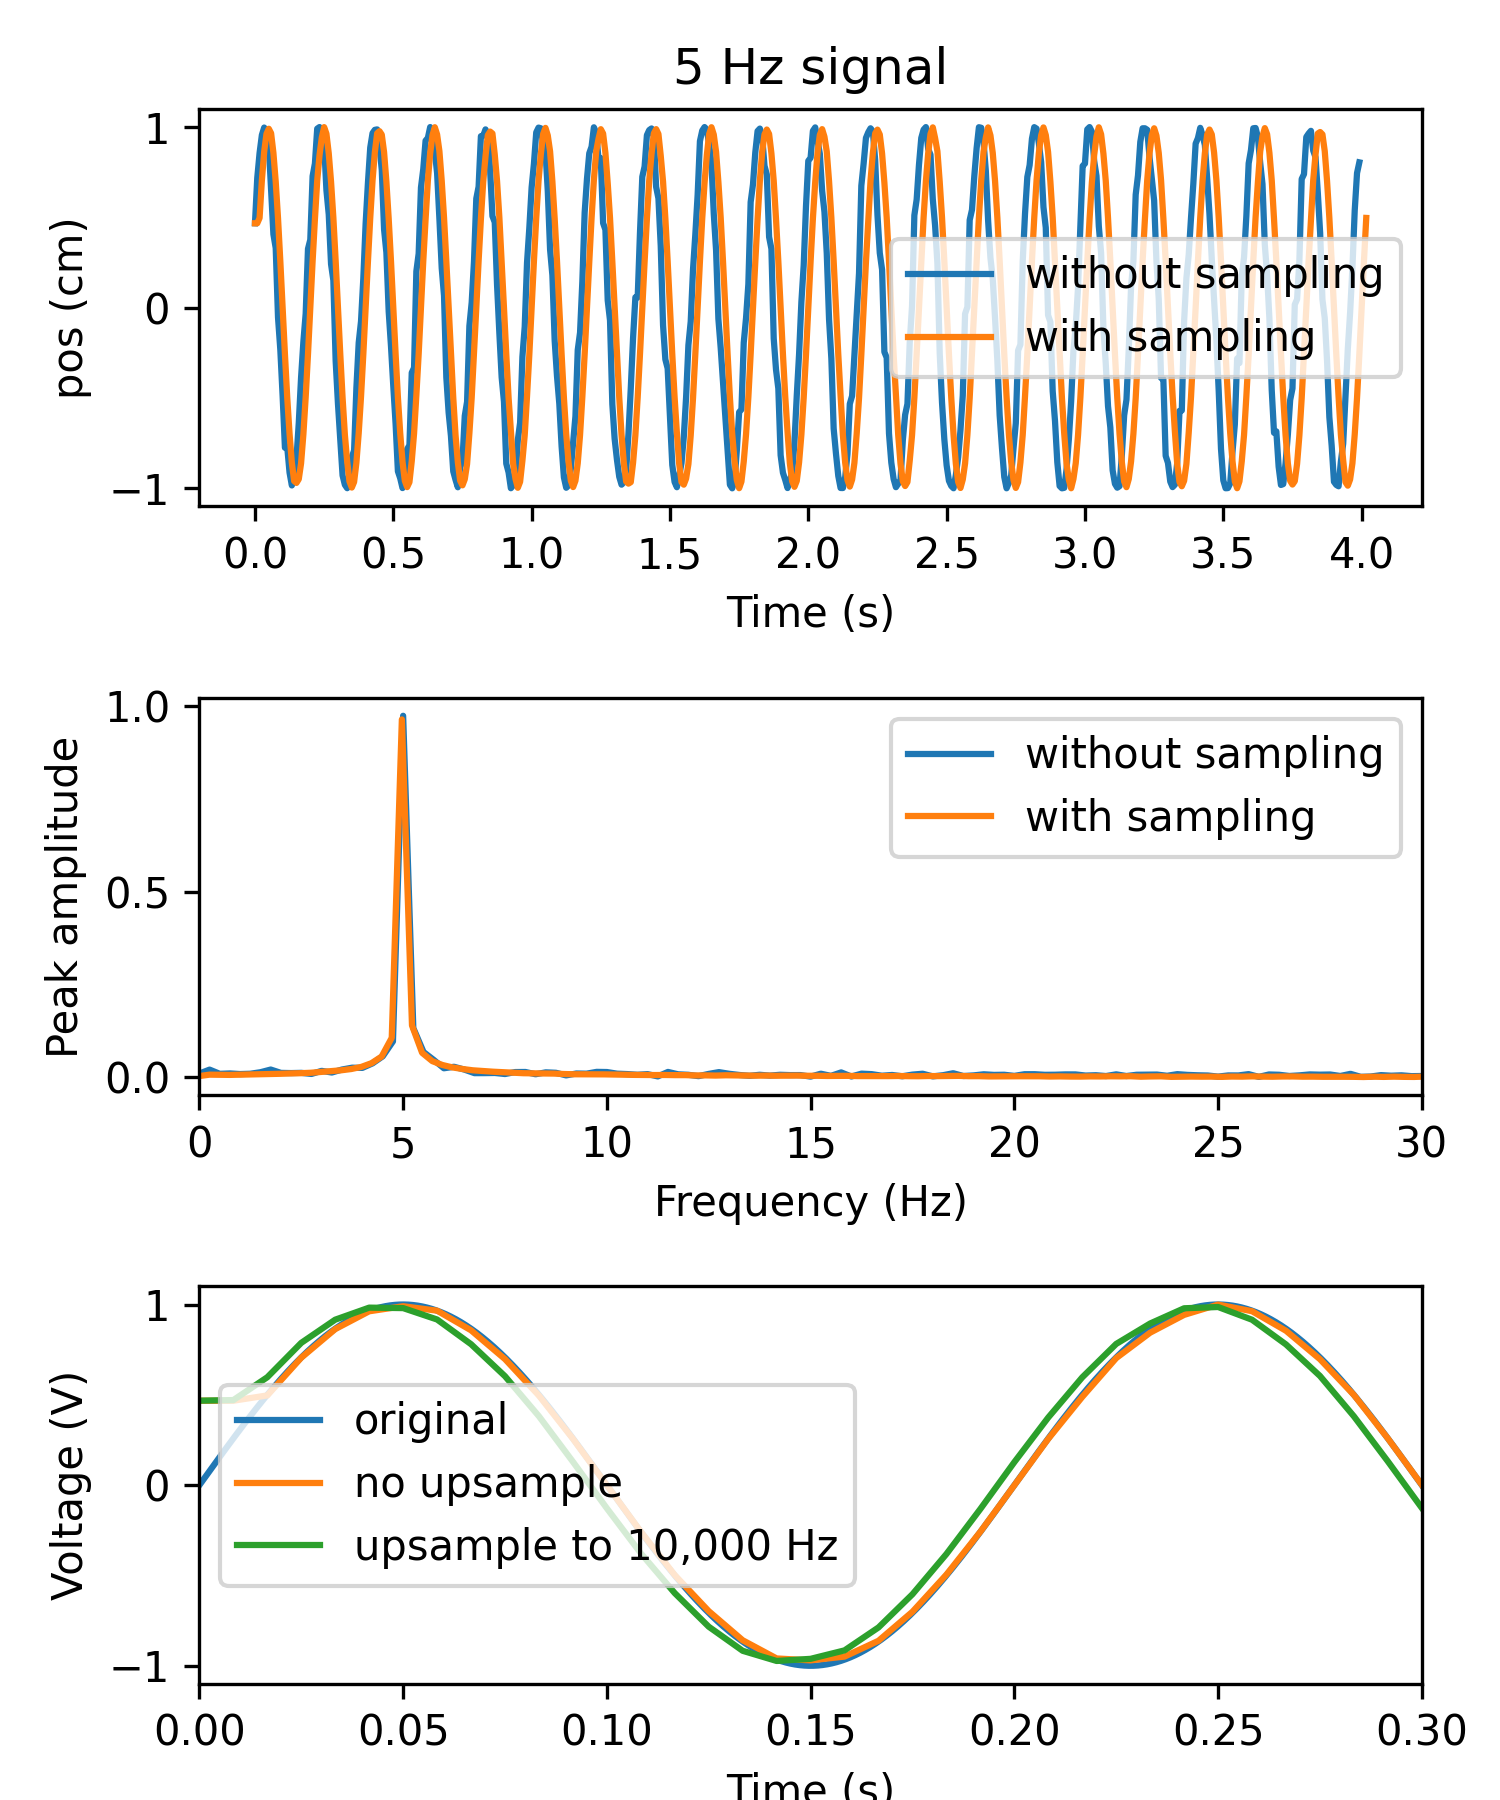
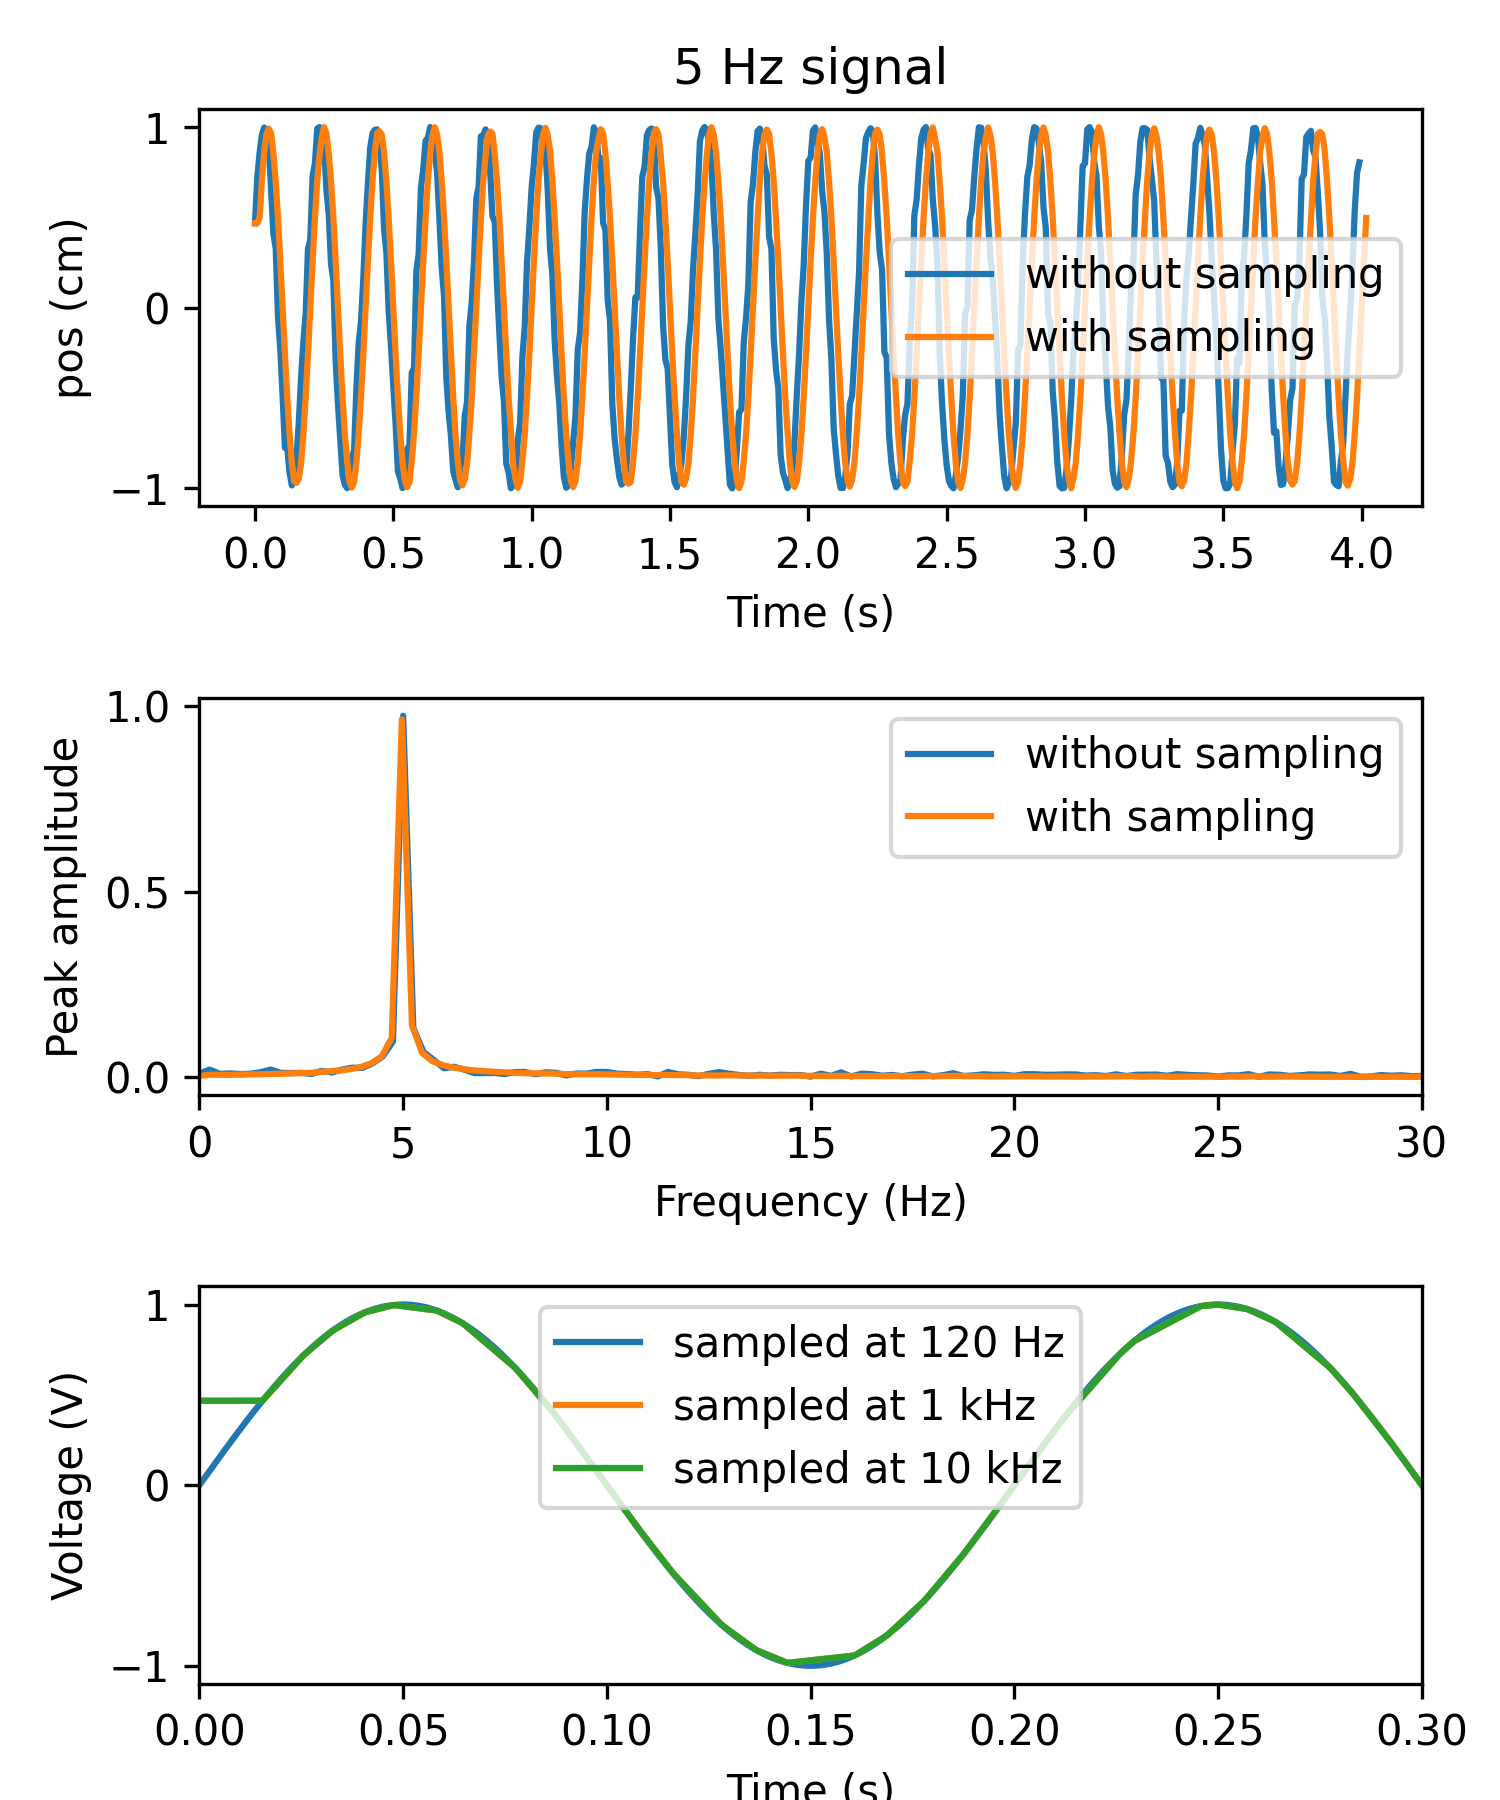
remove upsamplerate

Changed region(s): [[0.2147, 0.7156, 0.8587, 0.9333], [0.1227, 0.7467, 0.2147, 0.8711], [0.8587, 0.7467, 0.9507, 0.84]]

diff --git a/aopy/preproc/base.py b/aopy/preproc/base.py
@@ -271,28 +271,74 @@ def sample_timestamped_data(data, timestamps, samplerate, upsamplerate=None, app
             be sampled. The first dimension must represent the time index.
         timestamps (nt,): The timestamp (in seconds) for each data point in data.
         samplerate (float): The desired output sampling rate in Hz.
-        upsamplerate (float, optional): The upsampling rate to use for interpolation. 
-            Defaults to the samplerate.
+        upsamplerate (float, optional): (deprecated) No longer used.
         append_time (float, optional): The amount of extra time to add at the end 
             of the timeseries, in seconds. Defaults to 0.
         kwargs (dict, optional): arguments to include in interpolation function
 
     Returns:
         (ns, ...): cursor_data_time containing the sampled data.
+
+    Examples:
+
+        .. code-block:: python
+
+            np.random.seed(0)
+            duration = 4
+            freq = 5
+            samplerate = 25000
+            ground_truth_data = utils.generate_multichannel_test_signal(duration*2, samplerate, 2, freq, 1)
+            
+            fps = 120
+            nt = fps*duration
+            offset = 0.01 # timestamps start strictly after time zero
+            framerate_error = 0.01*np.random.uniform(size=(nt,)) # 10 ms jitter
+            drift = np.cumsum(0.0001*np.random.uniform(size=(nt,))) # 0.1 ms drift
+            timestamps = offset + np.arange(nt)/fps + framerate_error + drift
+            samples = (timestamps * samplerate).astype(int)
+
+            frame_data = ground_truth_data[samples,:]
+            interp_samplerate = 120
+            interp_data = sample_timestamped_data(frame_data, timestamps, interp_samplerate)
+
+            fig, ax = plt.subplots(3,1, figsize=(5,6))
+            visualization.plot_timeseries(frame_data[:,0], fps, ax=ax[0])
+            visualization.plot_timeseries(interp_data[:,0], interp_samplerate, ax=ax[0])
+            ax[0].set_title(f'{freq} Hz signal')
+            ax[0].set_ylabel('pos (cm)')
+            ax[0].legend(['without sampling', 'with sampling'])
+
+            visualization.plot_freq_domain_amplitude(frame_data[:,0], fps, ax=ax[1])
+            visualization.plot_freq_domain_amplitude(interp_data[:,0], interp_samplerate, ax=ax[1])
+            ax[1].set_xscale('linear')
+            ax[1].set_xlim(0,30)
+            ax[1].set_ylabel('Peak amplitude')
+            ax[1].legend(['without sampling', 'with sampling'])
+            plt.tight_layout()
+
+            # Compare with different upsampling rates
+            visualization.plot_timeseries(ground_truth_data[:,0], samplerate, ax=ax[2])
+            interp_data = sample_timestamped_data(frame_data, timestamps, 1000)
+            visualization.plot_timeseries(interp_data[:,0], 1000, ax=ax[2])
+            interp_data = sample_timestamped_data(frame_data, timestamps, 10000)
+            visualization.plot_timeseries(interp_data[:,0], 10000, ax=ax[2])
+            ax[2].set_xlim(0.0,0.3)
+            ax[2].legend(['sampled at 120 Hz', 'sampled at 1 kHz', 'sampled at 10 kHz'])
+
+        .. image:: _images/sample_timestamped_data.png
+
+    Modified July 2025: removed upsamplerate in favor of always interpolating to
+    exactly the sampling rate. Filtering and downsampling is now done later,
+    e.g. in :func:`~aopy.data.get_kinematics`.
     '''
     assert len(data) == len(timestamps), (f"Data and timestamps should "
         f"have the same number of cycles ({len(data)} vs {len(timestamps)})")
 
-    if upsamplerate is None:
-        upsamplerate = samplerate
+    if upsamplerate is not None:
+        warnings.warn("upsamplerate is no longer used", DeprecationWarning)
 
-    assert upsamplerate >= samplerate, "Upsamplerate must be greater than or equal to samplerate"
-
-    time = np.arange(int((timestamps[-1] + append_time)*upsamplerate))/upsamplerate # add extra time
+    time = np.arange(int((timestamps[-1] + append_time)*samplerate))/samplerate # add extra time
     data_time, _ = interp_timestamps2timeseries(timestamps, data, sampling_points=time, interp_kind='linear', extrapolate=False, **kwargs)
-    if upsamplerate > samplerate:
-        data_time, _ = precondition.filter_kinematics(data_time, upsamplerate, low_cut=samplerate/2) # 4th order low-pass butterworth filter
-        data_time = precondition.downsample(data_time, upsamplerate, samplerate)
     return data_time
 
 def get_dch_data(digital_data, digital_samplerate, dch):

diff --git a/tests/test_preproc.py b/tests/test_preproc.py
@@ -198,12 +198,12 @@ class DigitalCalcTests(unittest.TestCase):
 
         # Compare with different upsampling rates
         visualization.plot_timeseries(ground_truth_data[:,0], samplerate, ax=ax[2])
-        interp_data = sample_timestamped_data(frame_data, timestamps, interp_samplerate, upsamplerate=120)
-        visualization.plot_timeseries(interp_data[:,0], interp_samplerate, ax=ax[2])
-        interp_data = sample_timestamped_data(frame_data, timestamps, interp_samplerate, upsamplerate=120*100)
-        visualization.plot_timeseries(interp_data[:,0], interp_samplerate, ax=ax[2])
+        interp_data = sample_timestamped_data(frame_data, timestamps, 1000)
+        visualization.plot_timeseries(interp_data[:,0], 1000, ax=ax[2])
+        interp_data = sample_timestamped_data(frame_data, timestamps, 10000)
+        visualization.plot_timeseries(interp_data[:,0], 10000, ax=ax[2])
         ax[2].set_xlim(0.0,0.3)
-        ax[2].legend(['original', 'no upsample', 'upsample to 10,000 Hz'])
+        ax[2].legend(['sampled at 120 Hz', 'sampled at 1 kHz', 'sampled at 10 kHz'])
 
         filename = 'sample_timestamped_data.png'
         visualization.savefig(docs_dir, filename, transparent=False)
